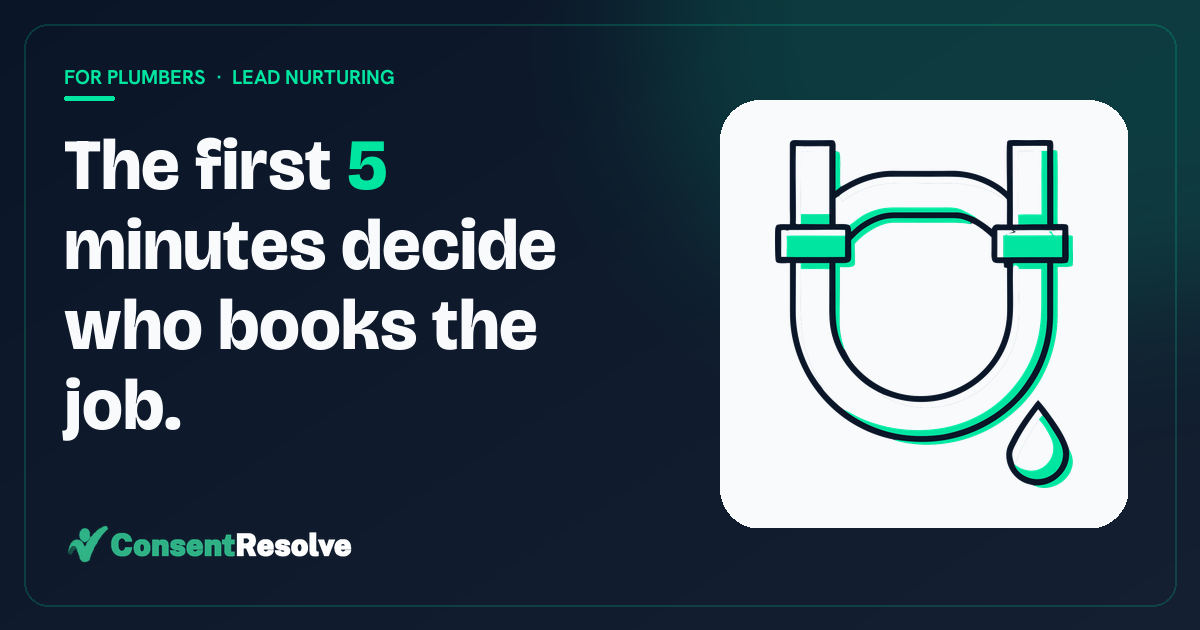
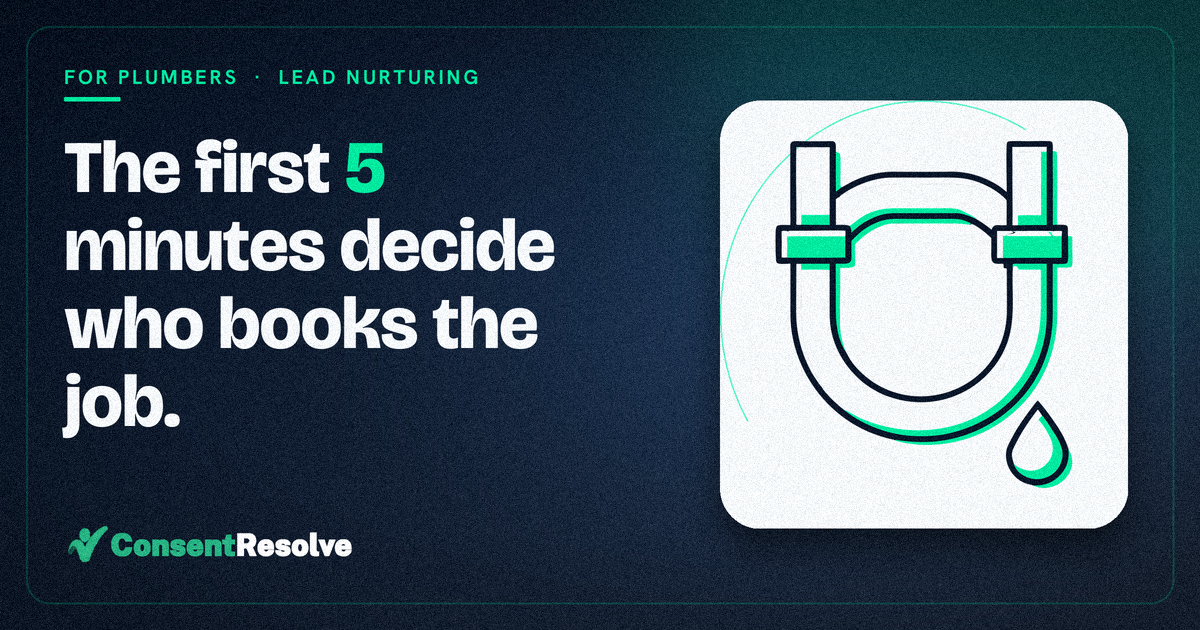
Image gen: art-direction polish pass (card shadow+rim, bg spotlight+vignette, grain, tracked type, square CTA removed, 2x supersample, mint pre-saturation); refresh polished plumber site-style previews

diff --git a/scripts/generate-resource-images.py b/scripts/generate-resource-images.py
@@ -33,7 +33,7 @@ import urllib.request
 import urllib.error
 from pathlib import Path
 import numpy as np
-from PIL import Image, ImageDraw, ImageFont, ImageFilter
+from PIL import Image, ImageDraw, ImageFont, ImageFilter, ImageEnhance
 
 ROOT = Path(__file__).resolve().parents[1]
 CONTENT = ROOT / "src" / "content" / "resources"
@@ -311,28 +311,34 @@ def render_ink(img, color=MINT, max_alpha=230, gamma=1.15):
 
 
 # ── Layer B: deterministic compositor ───────────────────────────────────────────
-def gradient_bg(w, h):
-    base = Image.new("RGB", (w, h), NAVY)
-    top = Image.new("RGB", (w, h), NAVY3)
-    mask = Image.new("L", (w, h))
-    md = mask.load()
-    for y in range(h):
-        for x in range(0, w, 4):
-            v = int(((x / w) * 0.55 + (y / h) * 0.45) * 130)
-            for dx in range(4):
-                if x + dx < w:
-                    md[x + dx, y] = v
-    base = Image.composite(top, base, mask).convert("RGBA")
+def gradient_bg(w, h, focus=(0.66, 0.44)):
+    """Navy diagonal gradient + mint glow + radial spotlight behind the focal
+    point + corner vignette + a faint mint inner-frame (the series signature)."""
+    yy, xx = np.mgrid[0:h, 0:w].astype(np.float32)
+    # diagonal navy gradient (navy -> navy3)
+    t = np.clip((xx / w) * 0.55 + (yy / h) * 0.45, 0, 1)[..., None]
+    base = (np.array(NAVY, np.float32) * (1 - t) + np.array(NAVY3, np.float32) * t)
+    # radial spotlight (lighter behind focus) — additive
+    fx, fy = focus[0] * w, focus[1] * h
+    ds = np.sqrt(((xx - fx) / (w * 0.55)) ** 2 + ((yy - fy) / (h * 0.62)) ** 2)
+    spot = np.clip(1 - ds, 0, 1)[..., None]
+    base += np.array([34, 60, 92], np.float32) * (spot ** 1.5) * 0.55
+    # corner vignette — multiplicative darken
+    cx, cy = w / 2.0, h / 2.0
+    dv = np.sqrt(((xx - cx) / (w / 2)) ** 2 + ((yy - cy) / (h / 2)) ** 2)
+    vig = 1 - np.clip((dv - 0.72) / 0.6, 0, 1)[..., None] * 0.28
+    base = np.clip(base * vig, 0, 255).astype(np.uint8)
+    img = Image.fromarray(base).convert("RGBA")
+    # mint glow top-right
     glow = Image.new("RGBA", (w, h), (0, 0, 0, 0))
-    ImageDraw.Draw(glow).ellipse([int(w * 0.5), int(-h * 0.4), int(w * 1.15), int(h * 0.6)], fill=(0, 229, 160, 40))
-    glow = glow.filter(ImageFilter.GaussianBlur(int(w * 0.07)))
-    base = Image.alpha_composite(base, glow)
-    # inner frame stroke
+    ImageDraw.Draw(glow).ellipse([int(w * 0.52), int(-h * 0.4), int(w * 1.15), int(h * 0.55)], fill=(0, 235, 165, 34))
+    img = Image.alpha_composite(img, glow.filter(ImageFilter.GaussianBlur(int(w * 0.07))))
+    # signature flourish — faint mint inner frame on every card
     fr = Image.new("RGBA", (w, h), (0, 0, 0, 0))
-    m = int(w * 0.02)
+    m = int(w * 0.022)
     ImageDraw.Draw(fr).rounded_rectangle([m, m, w - m, h - m], radius=int(w * 0.02),
-                                         outline=(0, 229, 160, 46), width=max(1, int(w / 600)))
-    return Image.alpha_composite(base, fr)
+                                         outline=(0, 235, 165, 42), width=max(1, int(w / 560)))
+    return Image.alpha_composite(img, fr)
 
 
 def load_logo(variant):
@@ -370,11 +376,30 @@ def place_art(card, art, box, mode):
         place_ink(card, art, box)
         return
     bx, by, bw, bh = box
+    rad = int(min(bw, bh) * 0.10)
     pad = int(min(bw, bh) * 0.10)
+    W, H = card.size
+
+    # 1) soft drop shadow so the white card floats above the navy
+    sh = Image.new("RGBA", (W, H), (0, 0, 0, 0))
+    off = int(min(bw, bh) * 0.05)
+    ImageDraw.Draw(sh).rounded_rectangle([bx, by + off, bx + bw, by + bh + off],
+                                         radius=rad, fill=(0, 0, 0, 130))
+    card.alpha_composite(sh.filter(ImageFilter.GaussianBlur(int(min(bw, bh) * 0.045))))
+
+    # 2) the white card
     panel = Image.new("RGBA", (bw, bh), (0, 0, 0, 0))
-    ImageDraw.Draw(panel).rounded_rectangle([0, 0, bw, bh], radius=int(min(bw, bh) * 0.10),
-                                            fill=(248, 250, 252, 255))
+    ImageDraw.Draw(panel).rounded_rectangle([0, 0, bw, bh], radius=rad, fill=(248, 250, 252, 255))
     card.alpha_composite(panel, (bx, by))
+
+    # 3) faint mint rim-light on the edge facing the light (top + left)
+    rim = Image.new("RGBA", (W, H), (0, 0, 0, 0))
+    rd = ImageDraw.Draw(rim)
+    rw = max(1, int(min(bw, bh) / 240))
+    rd.arc([bx, by, bx + bw, by + bh], start=150, end=300, fill=(0, 235, 165, 150), width=rw)
+    card.alpha_composite(rim)
+
+    # 4) the artwork (unchanged)
     im = art.copy()
     im.thumbnail((bw - 2 * pad, bh - 2 * pad), Image.LANCZOS)
     card.alpha_composite(im, (bx + (bw - im.width) // 2, by + (bh - im.height) // 2))
@@ -384,12 +409,27 @@ def is_number_token(tok):
     return bool(re.search(r"\d", tok))
 
 
-def layout_words(draw, text, font, max_w):
+def word_w(draw, s, font, track=0.0):
+    """Width of a string drawn char-by-char with letter `track` (px)."""
+    if not s:
+        return 0.0
+    return sum(draw.textlength(c, font=font) for c in s) + track * (len(s) - 1)
+
+
+def draw_tracked(draw, x, y, s, font, fill, track=0.0):
+    cx = x
+    for c in s:
+        draw.text((cx, y), c, font=font, fill=fill)
+        cx += draw.textlength(c, font=font) + track
+    return cx
+
+
+def layout_words(draw, text, font, max_w, track=0.0):
     """Wrap into lines; each word tagged base/hi (numbers highlighted)."""
     space = draw.textlength(" ", font=font)
     lines, cur, curw = [], [], 0.0
     for word in text.split():
-        ww = draw.textlength(word, font=font)
+        ww = word_w(draw, word, font, track)
         add = ww + (space if cur else 0)
         if cur and curw + add > max_w:
             lines.append(cur)
@@ -402,30 +442,32 @@ def layout_words(draw, text, font, max_w):
     return lines
 
 
-def draw_hook(draw, x, y, lines, font, line_h):
+def draw_hook(draw, x, y, lines, font, line_h, track=0.0):
     space = draw.textlength(" ", font=font)
     for li, line in enumerate(lines):
         cx = x
         for word, hi in line:
-            draw.text((cx, y + li * line_h), word, font=font, fill=MINT if hi else WHITE)
-            cx += draw.textlength(word, font=font) + space
+            cx = draw_tracked(draw, cx, y + li * line_h, word, font, MINT if hi else WHITE, track)
+            cx += space
 
 
 def fit_hook(draw, hook, text_w, avail_h, max_size, min_size):
+    """Largest size that fits; tightened tracking (~-1.5%) + tighter leading."""
     size = max_size
     while size >= min_size:
         f = load_font("Bricolage.ttf", size, weight=800)
-        lines = layout_words(draw, hook, f, text_w)
-        line_h = int(size * 1.12)
-        widest = 0
-        for line in lines:
-            w = sum(draw.textlength(wd, font=f) for wd, _ in line) + draw.textlength(" ", font=f) * (len(line) - 1)
-            widest = max(widest, w)
+        track = -size * 0.015
+        lines = layout_words(draw, hook, f, text_w, track)
+        line_h = int(size * 1.06)
+        space = draw.textlength(" ", font=f)
+        widest = max((sum(word_w(draw, wd, f, track) for wd, _ in line) + space * (len(line) - 1)
+                      for line in lines), default=0)
         if widest <= text_w and len(lines) * line_h <= avail_h:
-            return f, lines, line_h
+            return f, lines, line_h, track
         size -= 3
     f = load_font("Bricolage.ttf", min_size, weight=800)
-    return f, layout_words(draw, hook, f, text_w), int(min_size * 1.12)
+    track = -min_size * 0.015
+    return f, layout_words(draw, hook, f, text_w, track), int(min_size * 1.06), track
 
 
 def eyebrow_text(fm, trade_label=""):
@@ -473,16 +515,33 @@ def fetch_trade_bg(trade, site=False):
     return p
 
 
-def compose(variant, fm, art, trade_label="", art_mode="ink"):
+def apply_grain(img, amt=0.03, seed=11):
+    """Barely-there luminance noise to kill the flat-vector look."""
+    w, h = img.size
+    n = np.random.default_rng(seed).normal(0, 255 * amt, (h, w)).astype(np.float32)
+    arr = np.asarray(img.convert("RGB")).astype(np.float32) + n[..., None]
+    return Image.fromarray(np.clip(arr, 0, 255).astype(np.uint8))
+
+
+def finalize(card, variant):
+    """2x supersample -> downscale (crisp), pre-saturate mint, add grain."""
+    w, h, *_ = VARIANTS[variant]
+    card = card.resize((w, h), Image.LANCZOS)
+    card = ImageEnhance.Color(card).enhance(1.08)  # platforms desaturate on upload
+    return apply_grain(card, 0.03)
+
+
+def compose(variant, fm, art, trade_label="", art_mode="ink", ss=1):
     w, h, layout, logo_variant, logo_h_base, logo_pos, margin_base = VARIANTS[variant]
+    w, h = w * ss, h * ss
     scale = w / 1200.0
-    card = gradient_bg(w, h)
+    # focal point for the bg spotlight: behind the illustration
+    focus = (0.74, 0.46) if layout == "wide" else (0.6, 0.62)
+    card = gradient_bg(w, h, focus)
     draw = ImageDraw.Draw(card)
-    pad = int(margin_base * scale) if layout != "wide" else 64
-    if layout == "wide":
-        pad = 64
-    logo_h = int(logo_h_base * scale) if layout != "wide" else logo_h_base
-    margin = int(margin_base) if layout == "wide" else int(margin_base * scale)
+    pad = int(margin_base * scale)
+    logo_h = int(logo_h_base * scale)
+    margin = int(margin_base * scale)
 
     cat_size = max(12, int(20 * scale))
     f_cat = load_font("Hanken.ttf", cat_size, weight=700)
@@ -496,14 +555,14 @@ def compose(variant, fm, art, trade_label="", art_mode="ink"):
         ey = pad
         text_w = int(w * 0.55) - pad
         # eyebrow + rule
-        draw.text((tx, ey), eyebrow_text(fm, trade_label), font=f_cat, fill=MINT)
-        ry = ey + cat_size + int(12 * scale)
-        draw.rounded_rectangle([tx, ry, tx + int(50 * scale), ry + max(3, int(4 * scale))], radius=2, fill=MINT)
+        draw_tracked(draw, tx, ey, eyebrow_text(fm, trade_label), f_cat, MINT, cat_size * 0.14)
+        ry = ey + cat_size + int(13 * scale)
+        draw.rounded_rectangle([tx, ry, tx + int(56 * scale), ry + max(3, int(4 * scale))], radius=2, fill=MINT)
         # hook fills the band between eyebrow and the logo
         logo_top = h - margin - logo_h
         hook_top = ry + int(26 * scale)
-        f_hook, lines, lh = fit_hook(draw, hook, text_w, logo_top - hook_top - int(24 * scale), int(72 * scale), int(30 * scale))
-        draw_hook(draw, tx, hook_top, lines, f_hook, lh)
+        f_hook, lines, lh, htrack = fit_hook(draw, hook, text_w, logo_top - hook_top - int(24 * scale), int(74 * scale), int(30 * scale))
+        draw_hook(draw, tx, hook_top, lines, f_hook, lh, htrack)
         place_logo(card, logo_variant, logo_h, "bl", margin)
 
     elif layout == "thumb":
@@ -512,8 +571,8 @@ def compose(variant, fm, art, trade_label="", art_mode="ink"):
         tx = margin
         top = margin + logo_h + int(14 * scale)
         text_w = int(w * 0.56)
-        f_hook, lines, lh = fit_hook(draw, hook, text_w, h - top - margin, int(40 * scale), int(20 * scale))
-        draw_hook(draw, tx, top, lines, f_hook, lh)
+        f_hook, lines, lh, htrack = fit_hook(draw, hook, text_w, h - top - margin, int(40 * scale), int(20 * scale))
+        draw_hook(draw, tx, top, lines, f_hook, lh, htrack)
 
     else:  # square / portrait — logo top, then eyebrow, hook, headline, CTA
         place_logo(card, logo_variant, logo_h, "tl", margin)
@@ -525,26 +584,29 @@ def compose(variant, fm, art, trade_label="", art_mode="ink"):
         tx = margin
         ey = margin + logo_h + int(26 * scale)
         text_w = w - 2 * margin
-        draw.text((tx, ey), eyebrow_text(fm, trade_label), font=f_cat, fill=MINT)
-        ry = ey + cat_size + int(12 * scale)
-        draw.rounded_rectangle([tx, ry, tx + int(50 * scale), ry + max(3, int(4 * scale))], radius=2, fill=MINT)
+        draw_tracked(draw, tx, ey, eyebrow_text(fm, trade_label), f_cat, MINT, cat_size * 0.14)
+        ry = ey + cat_size + int(13 * scale)
+        draw.rounded_rectangle([tx, ry, tx + int(56 * scale), ry + max(3, int(4 * scale))], radius=2, fill=MINT)
         hook_top = ry + int(26 * scale)
-        f_hook, lines, lh = fit_hook(draw, hook, text_w, int(h * 0.34), int(74 * scale), int(34 * scale))
-        draw_hook(draw, tx, hook_top, lines, f_hook, lh)
+        # CTA removed on square (not clickable in-feed) -> bigger headline.
+        hook_max = int(84 * scale) if layout == "square" else int(74 * scale)
+        f_hook, lines, lh, htrack = fit_hook(draw, hook, text_w, int(h * 0.38), hook_max, int(34 * scale))
+        draw_hook(draw, tx, hook_top, lines, f_hook, lh, htrack)
+        # subhead — higher contrast for legibility (words unchanged)
         hl_y = hook_top + len(lines) * lh + int(22 * scale)
-        f_hl = load_font("Hanken.ttf", int(30 * scale), weight=600)
+        f_hl = load_font("Hanken.ttf", int(29 * scale), weight=600)
         hl_lines = layout_words(draw, headline, f_hl, text_w)
         for i, line in enumerate(hl_lines[:3]):
-            draw.text((tx, hl_y + i * int(38 * scale)), " ".join(wd for wd, _ in line), font=f_hl, fill=MUTED)
-        # CTA pill
-        cta = fm["cta_text"]
-        f_cta = load_font("Hanken.ttf", int(24 * scale), weight=700)
-        cw = draw.textlength(cta, font=f_cta)
-        pill_w = int(cw + 44 * scale)
-        pill_h = int(54 * scale)
-        cta_y = h - margin - pill_h if layout == "portrait" else hl_y + len(hl_lines[:3]) * int(38 * scale) + int(26 * scale)
-        draw.rounded_rectangle([tx, cta_y, tx + pill_w, cta_y + pill_h], radius=pill_h // 2, fill=MINT)
-        draw.text((tx + int(22 * scale), cta_y + (pill_h - int(24 * scale)) // 2 - int(2 * scale)), cta, font=f_cta, fill=NAVY)
+            draw.text((tx, hl_y + i * int(38 * scale)), " ".join(wd for wd, _ in line), font=f_hl, fill=(203, 213, 225))
+        if layout == "portrait":
+            # CTA pill only on the vertical (still a useful in-feed affordance)
+            cta = fm["cta_text"]
+            f_cta = load_font("Hanken.ttf", int(24 * scale), weight=700)
+            pill_w = int(draw.textlength(cta, font=f_cta) + 44 * scale)
+            pill_h = int(54 * scale)
+            cta_y = h - margin - pill_h
+            draw.rounded_rectangle([tx, cta_y, tx + pill_w, cta_y + pill_h], radius=pill_h // 2, fill=MINT)
+            draw.text((tx + int(22 * scale), cta_y + (pill_h - int(24 * scale)) // 2 - int(2 * scale)), cta, font=f_cta, fill=NAVY)
 
     return card.convert("RGB")
 
@@ -598,7 +660,8 @@ def main():
         suffix = f"-{args.trade}" if args.trade else ""
         style_tag = "-site" if args.site_style else ""
         for v in variants:
-            card = compose(v, fm, art, trade_label, art_mode)
+            card = compose(v, fm, art, trade_label, art_mode, ss=2)
+            card = finalize(card, v)
             out = out_dir / f"{slug}{suffix}{style_tag}-{v}.png"
             card.save(out, "PNG")
             print(f"  wrote {out.relative_to(ROOT)} ({VARIANTS[v][0]}x{VARIANTS[v][1]})")
